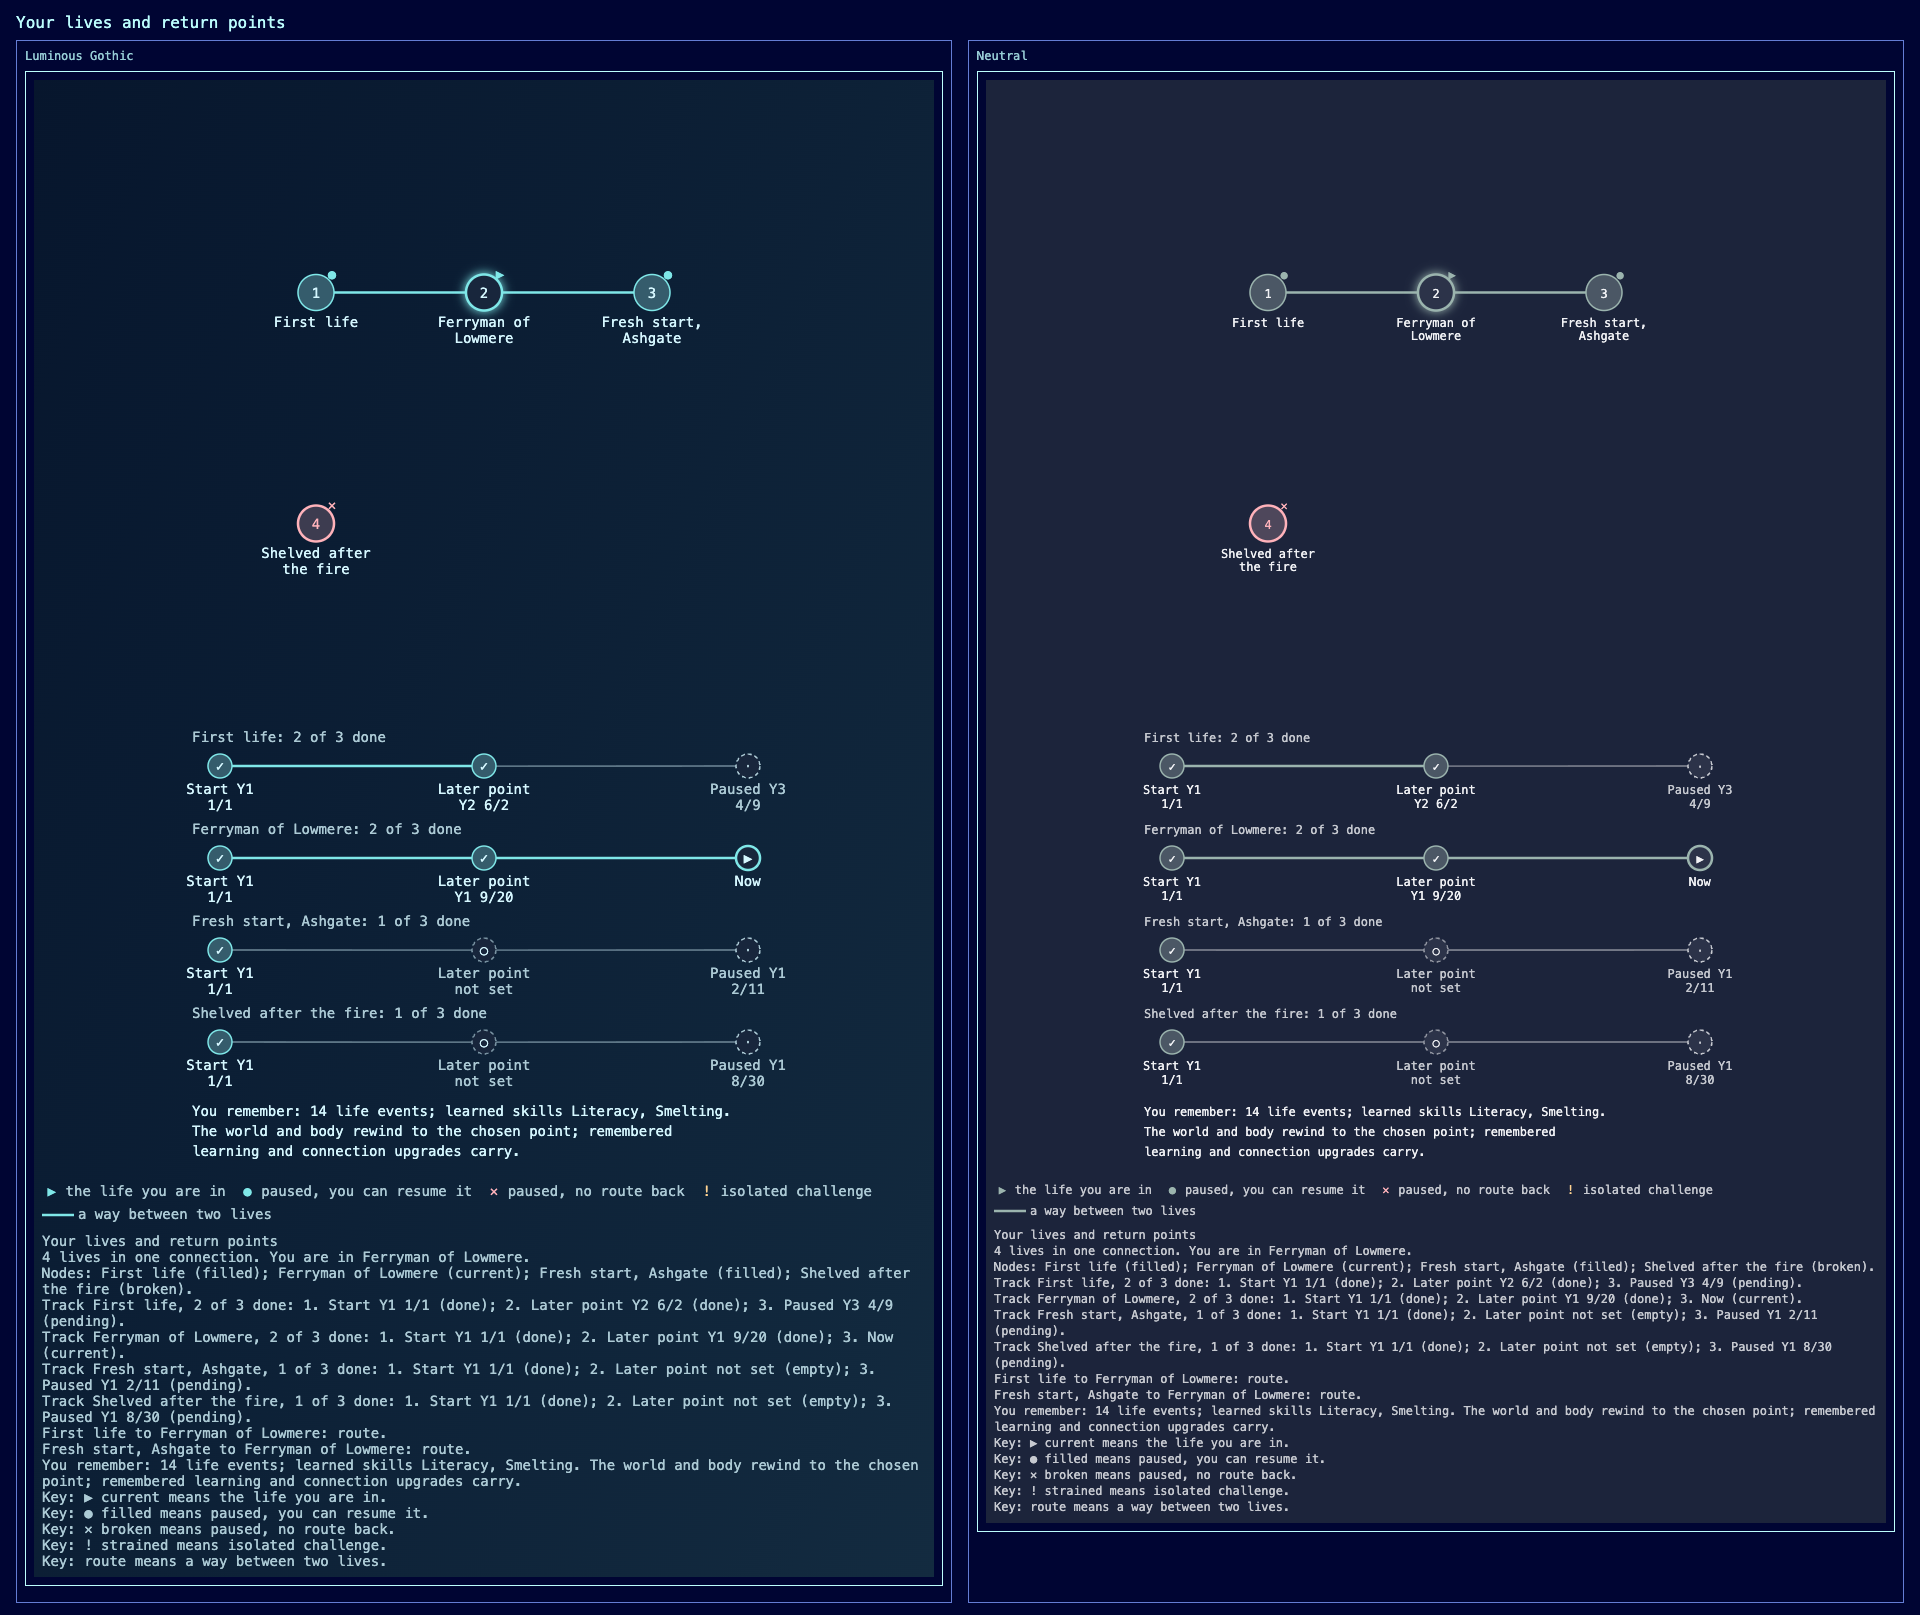
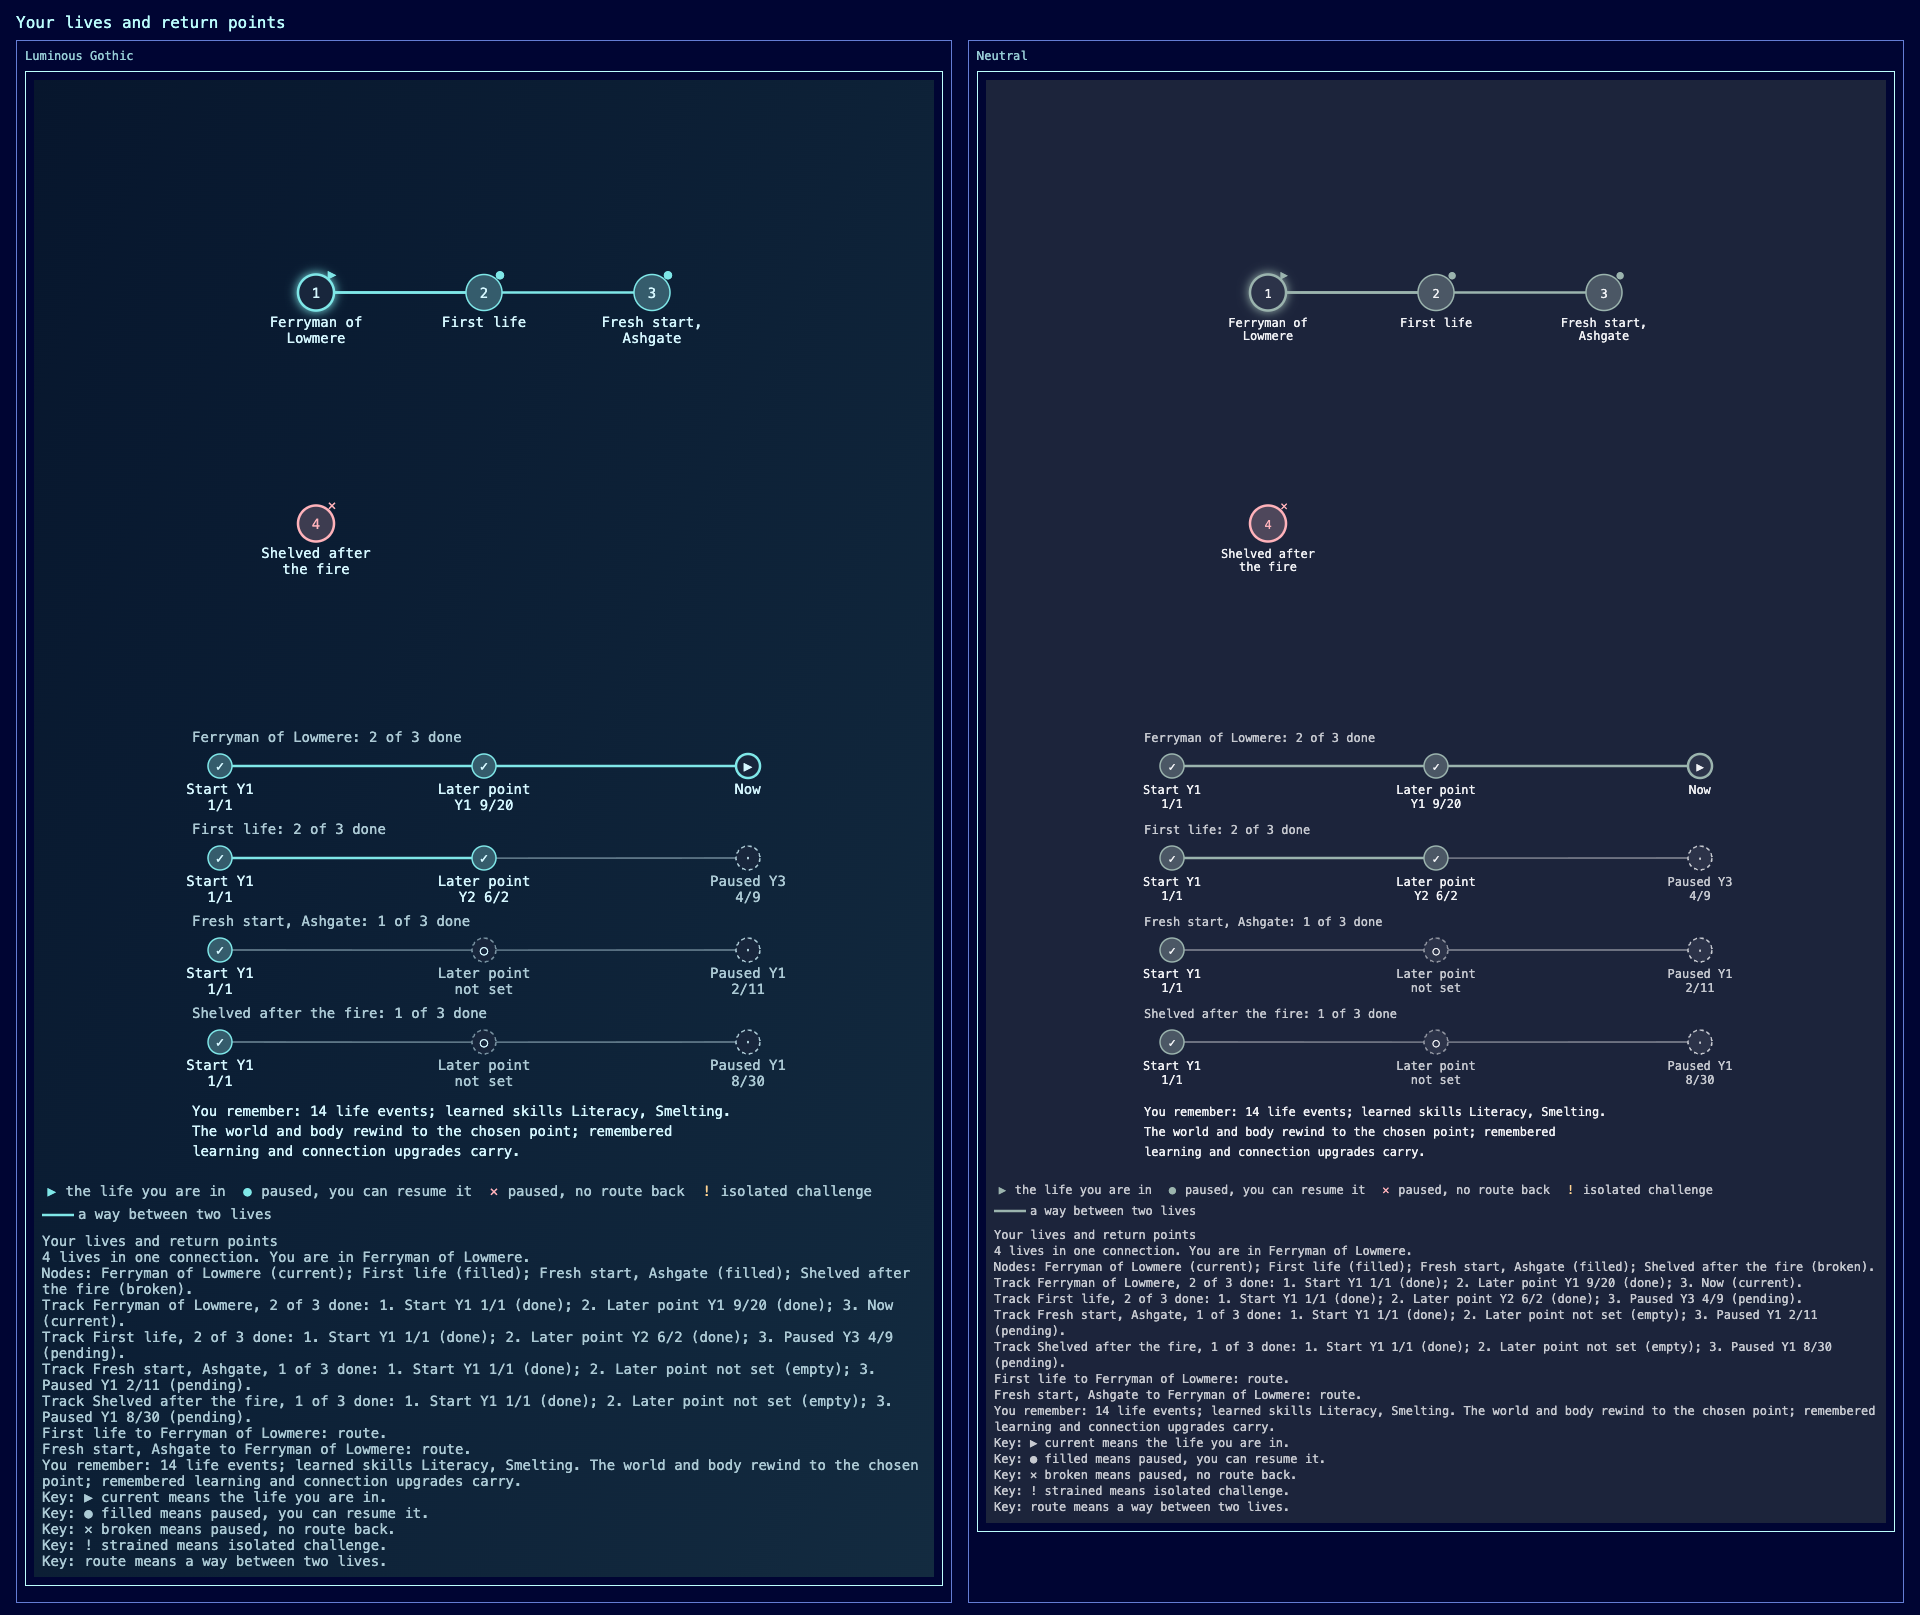
Lives figure: real dates for paused lives, in-game capture, doc verification state
(cherry picked from commit 3f874b85be8ea8a4f5bedbfb5e62de091890773b)

diff --git a/src/continuation_ui.js b/src/continuation_ui.js
@@ -63,7 +63,7 @@ export function createContinuationUI({read,command}) {
         research.append(node('h3','Investigate the connection'),node('p',s.research.checkpoint?'You understand how to mark a later point. This faculty stays with you.':`Study: ${s.research.minutes}/10 min. Observe how the initial return point remains recognizable; practice identifying another moment. Study progresses with ordinary unoccupied time.`));
         if(!s.research.checkpoint)research.append(button(s.research.running?'Pause investigation':'Investigate · 10 min of available time','study',!!reason||s.busy,reason||(s.busy?'Finish current work before investigating.':'')));
         if(s.research.checkpoint)research.append(confirm(s.checkpointDate?'Replace the later checkpoint':'Mark this moment','set',`Mark the current world and body. ${s.checkpointDate?'The previous later point will be replaced. ':''}Your initial fallback remains. A valid point can still be dangerous.`,!!reason,reason));
-        if(section==='lives'){const fig=node('div','','ui-lives-figure');renderFigure(fig,livesFigure(livesFromView(s)),{idPrefix:'continuation-lives',text:true});body.append(fig);}
+        if(section==='lives'){const fig=node('div','','ui-lives-figure');renderFigure(fig,livesFigure(livesFromView(s),{size:520}),{idPrefix:'continuation-lives',text:true});body.append(fig);}
         if(section==='research')body.append(node('p',`Initial: ${date(s.initialDate)}. Later: ${date(s.checkpointDate)}.`),research);
         if(section==='return'&&s.baggage){const b=s.baggage;body.append(node('h3','Connected baggage (optional)'),node('p',`Purchased space ${b.used}/${b.slots}. Each slot carries one loose supported item or 25 coins into a fresh ordinary life. The source and its return points lose those exported goods and coins; rewinding keeps them with their recipient. An older return point that reserves the exported copy in unfinished work waits until that conflict is resolved; other free points remain usable. Unequip gear before packing. Individually tracked equipment keeps its exact identity, wear, repairs, name and living-gear state; those facts leave the source with it. Body-bound effects still need their own compatible body. Processed lineage goods keep their provenance. Crafted products that need a separate product owner remain held here. An identity collision with the new opening leaves this bag held. This bag is inactive in isolated challenges. Plans clear after passage; purchased space remains.`),button(`Open one baggage slot · ${b.nextCost} coins`,'baggage:buy',!!travelReason||b.slots>=4,travelReason),button('Clear selected baggage','baggage:clear',!!travelReason,travelReason));if(b.slots){body.append(node('p',`Selected coins ${b.coins}; selected items ${b.items.length}.`),button('Pack 25 actual coins','baggage:coins',!!travelReason||b.used>=b.slots,travelReason));for(const q of b.candidates)body.append(button(`Pack ${q.label} · ${q.selected}/${q.count} selected`,'baggage:item:'+encodeURIComponent(q.key),!!travelReason||!!q.reason||b.used>=b.slots||q.selected>=q.count,travelReason||q.reason));}}
         const returns=node('div','','panel-info ui-panel-section');returns.append(node('h3','Return or continue'));

diff --git a/src/ui/preview/fixtures/spacetime.js b/src/ui/preview/fixtures/spacetime.js
@@ -1,16 +1,19 @@
 // Spacetime fixtures (invented names only, CLR3): a lives tree through the real adapter, a loop with carry-over,
 // a divergence ledger (opt-in, LTU10, design only) and an abstract space with no geography. Sealed places appear by ID.
 import {FIGURE_FIXTURES} from '../figure_fixtures.js';
-import {livesFigure} from '../../lives_figure.js';
+import {livesFigure, livesFromView} from '../../lives_figure.js';
 
 const T = (year, month, day) => ({year, month, day});
-export const LIVES_VIEW = {available: true, challenge: null, loop: {enabled: false, target: 'initial', cycles: 0}, memoryCount: 14, carried: ['Literacy', 'Smelting'],
-    lives: [
-        {id: 'life-1', label: 'First life', active: false, paused: T(3, 4, 9), reachable: true, tether: 'life-2', initial: T(1, 1, 1), checkpoint: T(2, 6, 2), checkpointReachable: true},
-        {id: 'life-2', label: 'Ferryman of Lowmere', active: true, initial: T(1, 1, 1), checkpoint: T(1, 9, 20), checkpointReachable: true, tether: null},
-        {id: 'life-3', label: 'Fresh start, Ashgate', active: false, paused: T(1, 2, 11), reachable: true, tether: 'life-2', initial: T(1, 1, 1), checkpoint: null},
-        {id: 'life-4', label: 'Shelved after the fire', active: false, paused: T(1, 8, 30), reachable: false, tether: null, initial: T(1, 1, 1), checkpoint: null}]};
-export const LIVES_FIXTURE = livesFigure(LIVES_VIEW);
+// Same shape as continuationView(save) returns, so the fixture goes through the adapter the game uses.
+export const LIVES_VIEW = {available: true, life: 'Ferryman of Lowmere', activeId: 'life-2', challenge: null, loop: {enabled: false, target: 'initial', cycles: 0},
+    initialDate: {year: 1, month: 1, day: 1}, checkpointDate: T(1, 9, 20), checkpointReachable: true, initialBlocked: '',
+    memories: Array.from({length: 14}, (_, i) => ({lifeId: 'life-1', event: {text: `Remembered event ${i + 1}`, at: i}})),
+    mastery: [{skill: 'Literacy', xp: 120, usable: true}, {skill: 'Smelting', xp: 40, usable: true}, {skill: 'Archery', xp: 30, usable: false}],
+    paused: [
+        {id: 'life-1', label: 'First life', reachable: true, date: T(3, 4, 9), initialDate: T(1, 1, 1), checkpointDate: T(2, 6, 2)},
+        {id: 'life-3', label: 'Fresh start, Ashgate', reachable: true, date: T(1, 2, 11), initialDate: T(1, 1, 1), checkpointDate: null},
+        {id: 'life-4', label: 'Shelved after the fire', reachable: false, date: T(1, 8, 30), initialDate: T(1, 1, 1), checkpointDate: null}]};
+export const LIVES_FIXTURE = livesFigure(livesFromView(LIVES_VIEW));
 
 export const LOOP_FIXTURE = {id: 'loop-clock-town', size: 640, title: 'Loop of the Clockwork Town (proposal)',
     summary: 'Cycle 6 of an unknown number. The town resets at dusk on day three; you keep what you learned.',

diff --git a/src/continuation_state.js b/src/continuation_state.js
@@ -235,5 +235,5 @@ export function continuationView(save) {
         initialBlocked:externalEquipmentReason(life,life.initial),checkpointBlocked:externalEquipmentReason(life,life.checkpoint),initialDate:copy(life.initial['current time']),checkpointDate:life.checkpoint?copy(life.checkpoint['current time']):null,
         checkpointReachable:!!life.checkpoint&&!externalEquipmentReason(life,life.checkpoint)&&(!save['current time']||nativeMoment(life.checkpoint)<=nativeMoment(save)),
         memories:copy(c.memories||[]).map(m=>({...m,lifeLabel:c.lives[m.lifeId]?.label||'Earlier life'})),arrivalPaused:!!c.arrivalPaused,research:copy(c.research),loop:copy(c.loop),mastery:Object.entries(c.mastery).filter(([skill,xp])=>xp>0&&(c.knownMastery||[]).includes(skill)).map(([skill,xp])=>({skill,xp,usable:COMPATIBLE_MASTERY.includes(skill)})),
-        paused:Object.values(c.lives).filter(x=>x.paused).map(x=>({id:x.id,label:x.label,reachable:life.tether===x.id||x.tether===c.active,date:copy(x.paused['current time'])}))};
+        paused:Object.values(c.lives).filter(x=>x.paused).map(x=>({id:x.id,label:x.label,reachable:life.tether===x.id||x.tether===c.active,date:copy(x.paused['current time']),initialDate:copy(x.initial['current time']),checkpointDate:x.checkpoint?copy(x.checkpoint['current time']):null}))};
 }

diff --git a/src/ui/lives_figure.js b/src/ui/lives_figure.js
@@ -42,7 +42,7 @@ export function livesFigure(view, options = {}) {
 /** Maps continuationView(save) onto the livesFigure input; reads only what the view already exposes. */
 export function livesFromView(view, activeLabel = 'This life') {
     if (!view || !view.available) return {available: false};
-    const paused = (view.paused || []).map(p => ({id: p.id, label: p.label, paused: p.date, reachable: p.reachable, tether: view.activeId, active: false}));
+    const paused = (view.paused || []).map(p => ({id: p.id, label: p.label, paused: p.date, initial: p.initialDate, checkpoint: p.checkpointDate, reachable: p.reachable, tether: view.activeId, active: false}));
     const active = {id: view.activeId || 'active', label: view.life || activeLabel, active: true, challenge: !!view.challenge, initial: view.initialDate, checkpoint: view.checkpointDate,
         initialBlocked: !!view.initialBlocked, checkpointReachable: view.checkpointReachable, tether: null};
     return {available: true, lives: [active, ...paused], challenge: view.challenge, loop: view.loop, memoryCount: (view.memories || []).length,

diff --git a/tests/lives_figure.test.js b/tests/lives_figure.test.js
@@ -53,3 +53,11 @@ test('renders to svg with the text form beside it', () => {
     renderFigure(host, PALACE_FIXTURE, {text: true});
     assert.ok(host.innerHTML.includes('Sealed room (S-11)'));
 });
+
+test('a paused life shows its own real dates, not a placeholder', () => {
+    const text = figureText(LIVES_FIXTURE);
+    assert.match(text, /Track First life, 2 of 3 done: 1\. Start Y1 1\/1 \(done\); 2\. Later point Y2 6\/2 \(done\); 3\. Paused Y3 4\/9/);
+    assert.match(text, /Track Fresh start, Ashgate, 1 of 3 done: 1\. Start Y1 1\/1 \(done\); 2\. Later point not set \(empty\)/);
+    assert.match(text, /learned skills Literacy, Smelting\./);
+    assert.match(text, /14 life events/);
+});

diff --git a/docs/representations/SPACETIME.md b/docs/representations/SPACETIME.md
@@ -54,14 +54,15 @@ Forms weighed and picked per part:
 - Gallery fixtures `src/ui/preview/fixtures/spacetime.js` (one import line in `figure_gallery.js`): lives tree (through the adapter), loop, divergence ledger (design only), memory palace (abstract space).
 - Tests: `tests/lives_figure.test.js` (6) with `figure.test.js`, `observer_view.test.js`, `continuation_state.test.js`.
 - Evidence: `docs/representations/evidence/spacetime/*.png` (1920×1080, Luminous and Neutral side by side, effects full and off; `scripts/capture_spacetime_gallery.mjs`).
-- **Verification state:** gallery rendering exercised in headless Chrome, 0 page errors. The Lives tab inside the live game is implemented and unit-covered but **not exercised in a rebuilt game**; it needs an enrolled continuation (fresh life: Journal undiscovered until the elder, then the enroll button). Implemented-unverified.
+- **Verification state:** gallery fixtures rendered in headless Chrome (0 page errors). The Lives tab was exercised in a rebuilt game from a fresh origin at 1920×1080 with `scripts/capture_spacetime_game.mjs`: one life, then a second life through "Begin a fresh life"; asserts the figure, the text form and real dates (`game-lives-one.png`, `game-lives-two.png`). Not exercised: resume, rewind, loop on, challenge, reload and import. The adapter reads existing fields only, so no persistence change. `check:arch` run; the full suite was not run (machine load).
+- Fixed after review: paused lives first showed placeholder dates in the game (the view lacked them); `continuationView` now returns each paused life's start and checkpoint dates (read-only) and the fixture goes through the same adapter.
 
 ## Round 2
 
 Items 1-21, short. Everything is a draft.
 
 1. **Other games**: table above. Each idea maps to a part; nothing copies a look.
-2. **Fresh-player test (from the fixture, not a live game)**: five-second read is "four lives, I'm in number 2, 4 has no way back". Terms needing knowing: "return point", "route", "isolated challenge". The legend defines route, and the track says Start, Later point, Now. Cheap fix applied: dropped the overlapping "both ways" edge label. Not fixed: the panel still starts on Anchors & study; proposing Lives as default (ACCOUNT FOR NOW, changes the tab existing browser scripts click).
+2. **Fresh-player test (from the fixture, not a live game)**: five-second read is "four lives, I'm in number 2, 4 has no way back". Terms needing knowing: "return point", "route", "isolated challenge". The legend defines route, and the track says Start, Later point, Now. Cheap fix applied: dropped the overlapping "both ways" edge label. In the game the figure fills the centre, so tracks and the text form sit below the fold of the panel (it scrolls); a tighter figure size (520) is used there. Not fixed: the panel still starts on Anchors & study; proposing Lives as default (ACCOUNT FOR NOW, changes the tab existing browser scripts click).
 3. **Density (UR42)**: glance is the node row plus the "you remember" line; the per-life tracks are second level; the old Return buttons stay one tab away.
 4. **Signals**: a loop chip "cycle 6" and a "paused lives: 3" chip fit the panel's home card (`#continuation_panel`). Each answers "can I go back, and where". LATER.
 5. **Pop-out**: a lives view on a second screen earns it for loop worlds (watch cycles while playing). Proposal; browser fallback is the same renderer.
